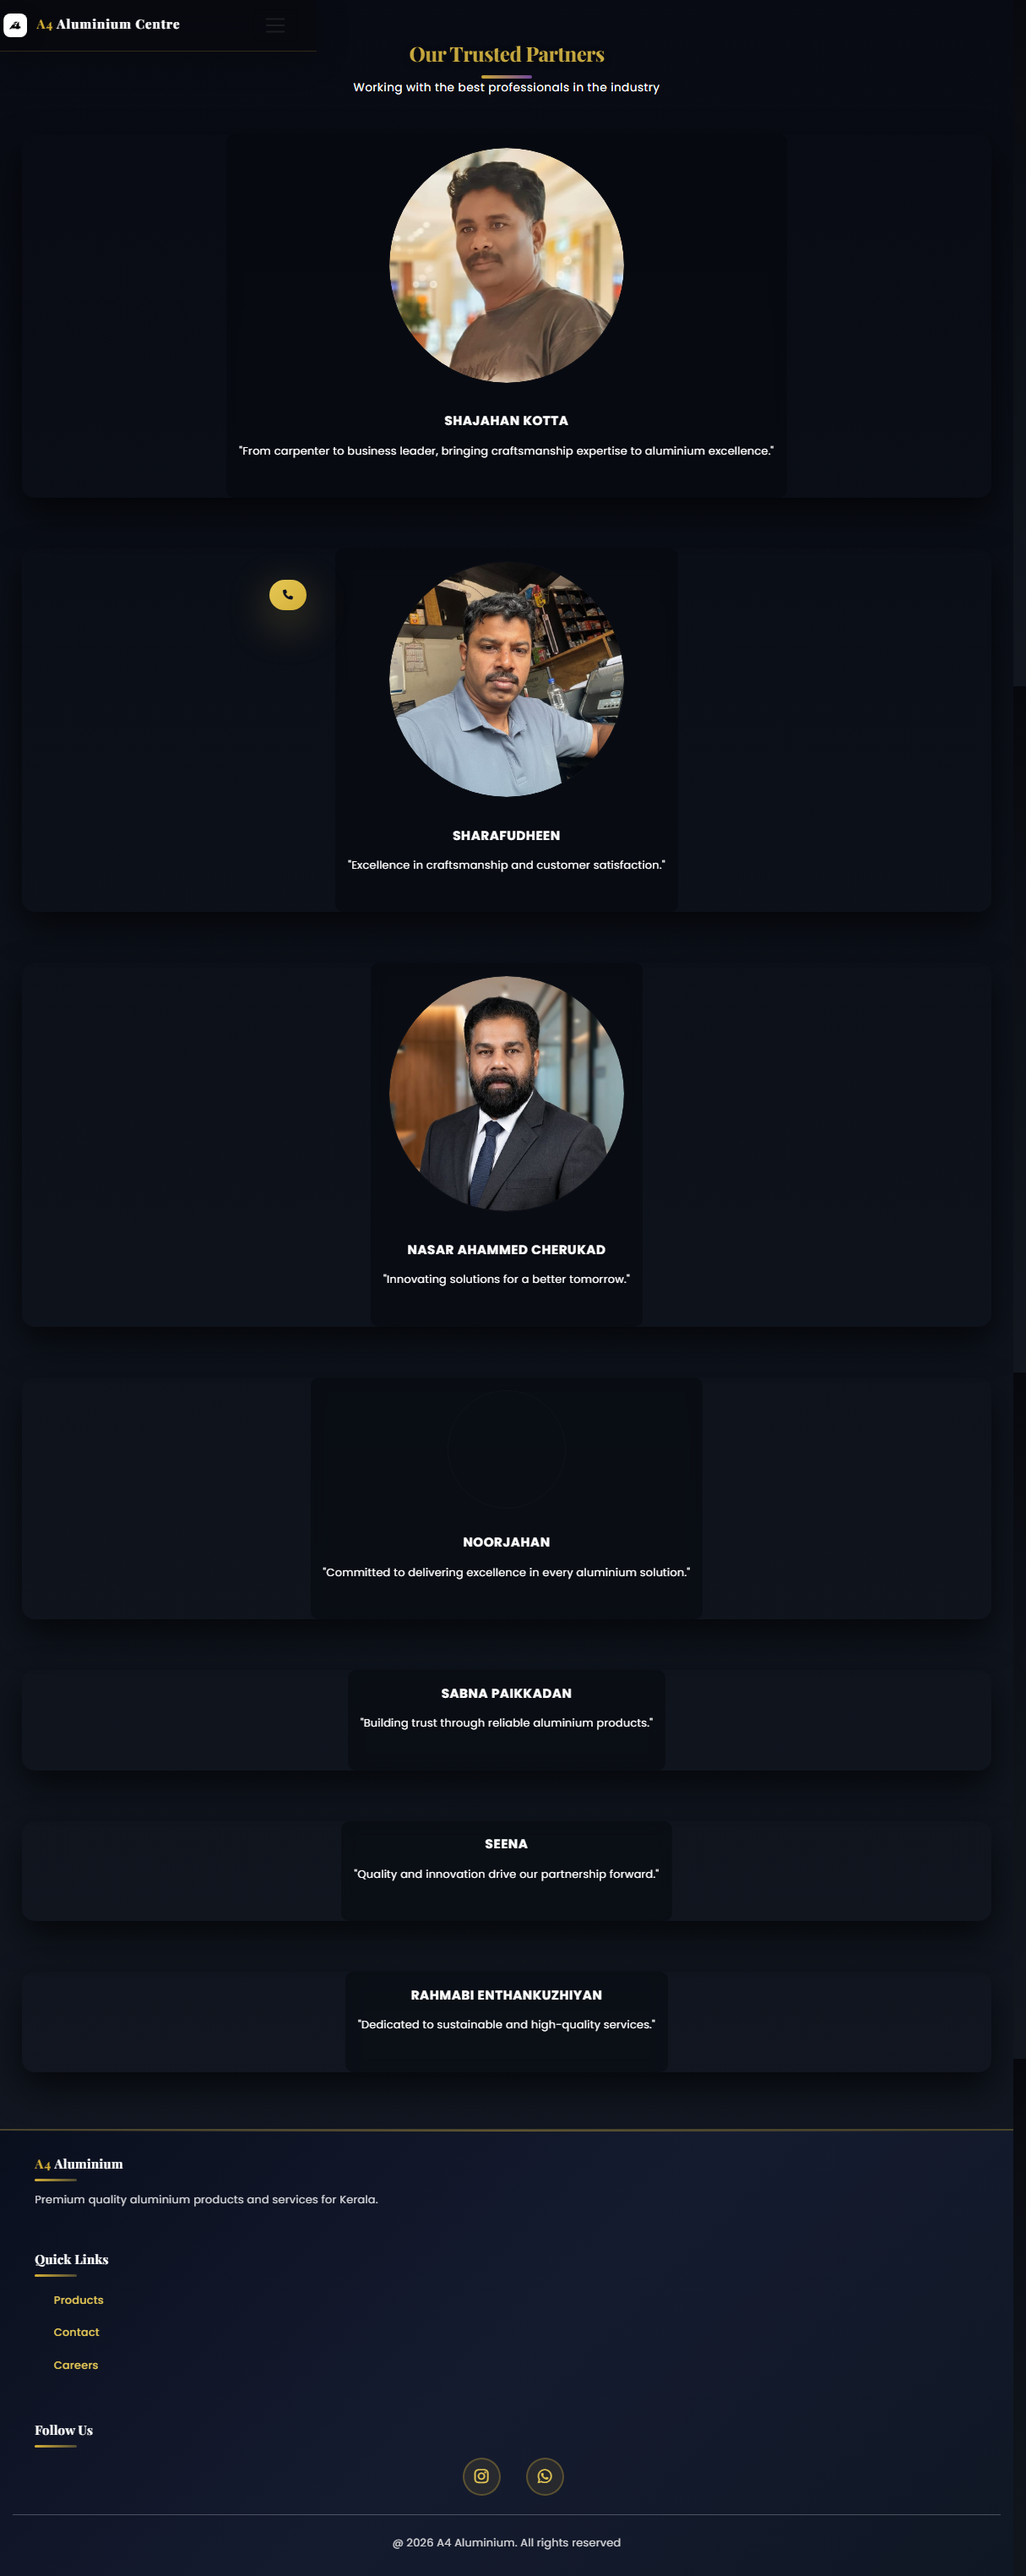
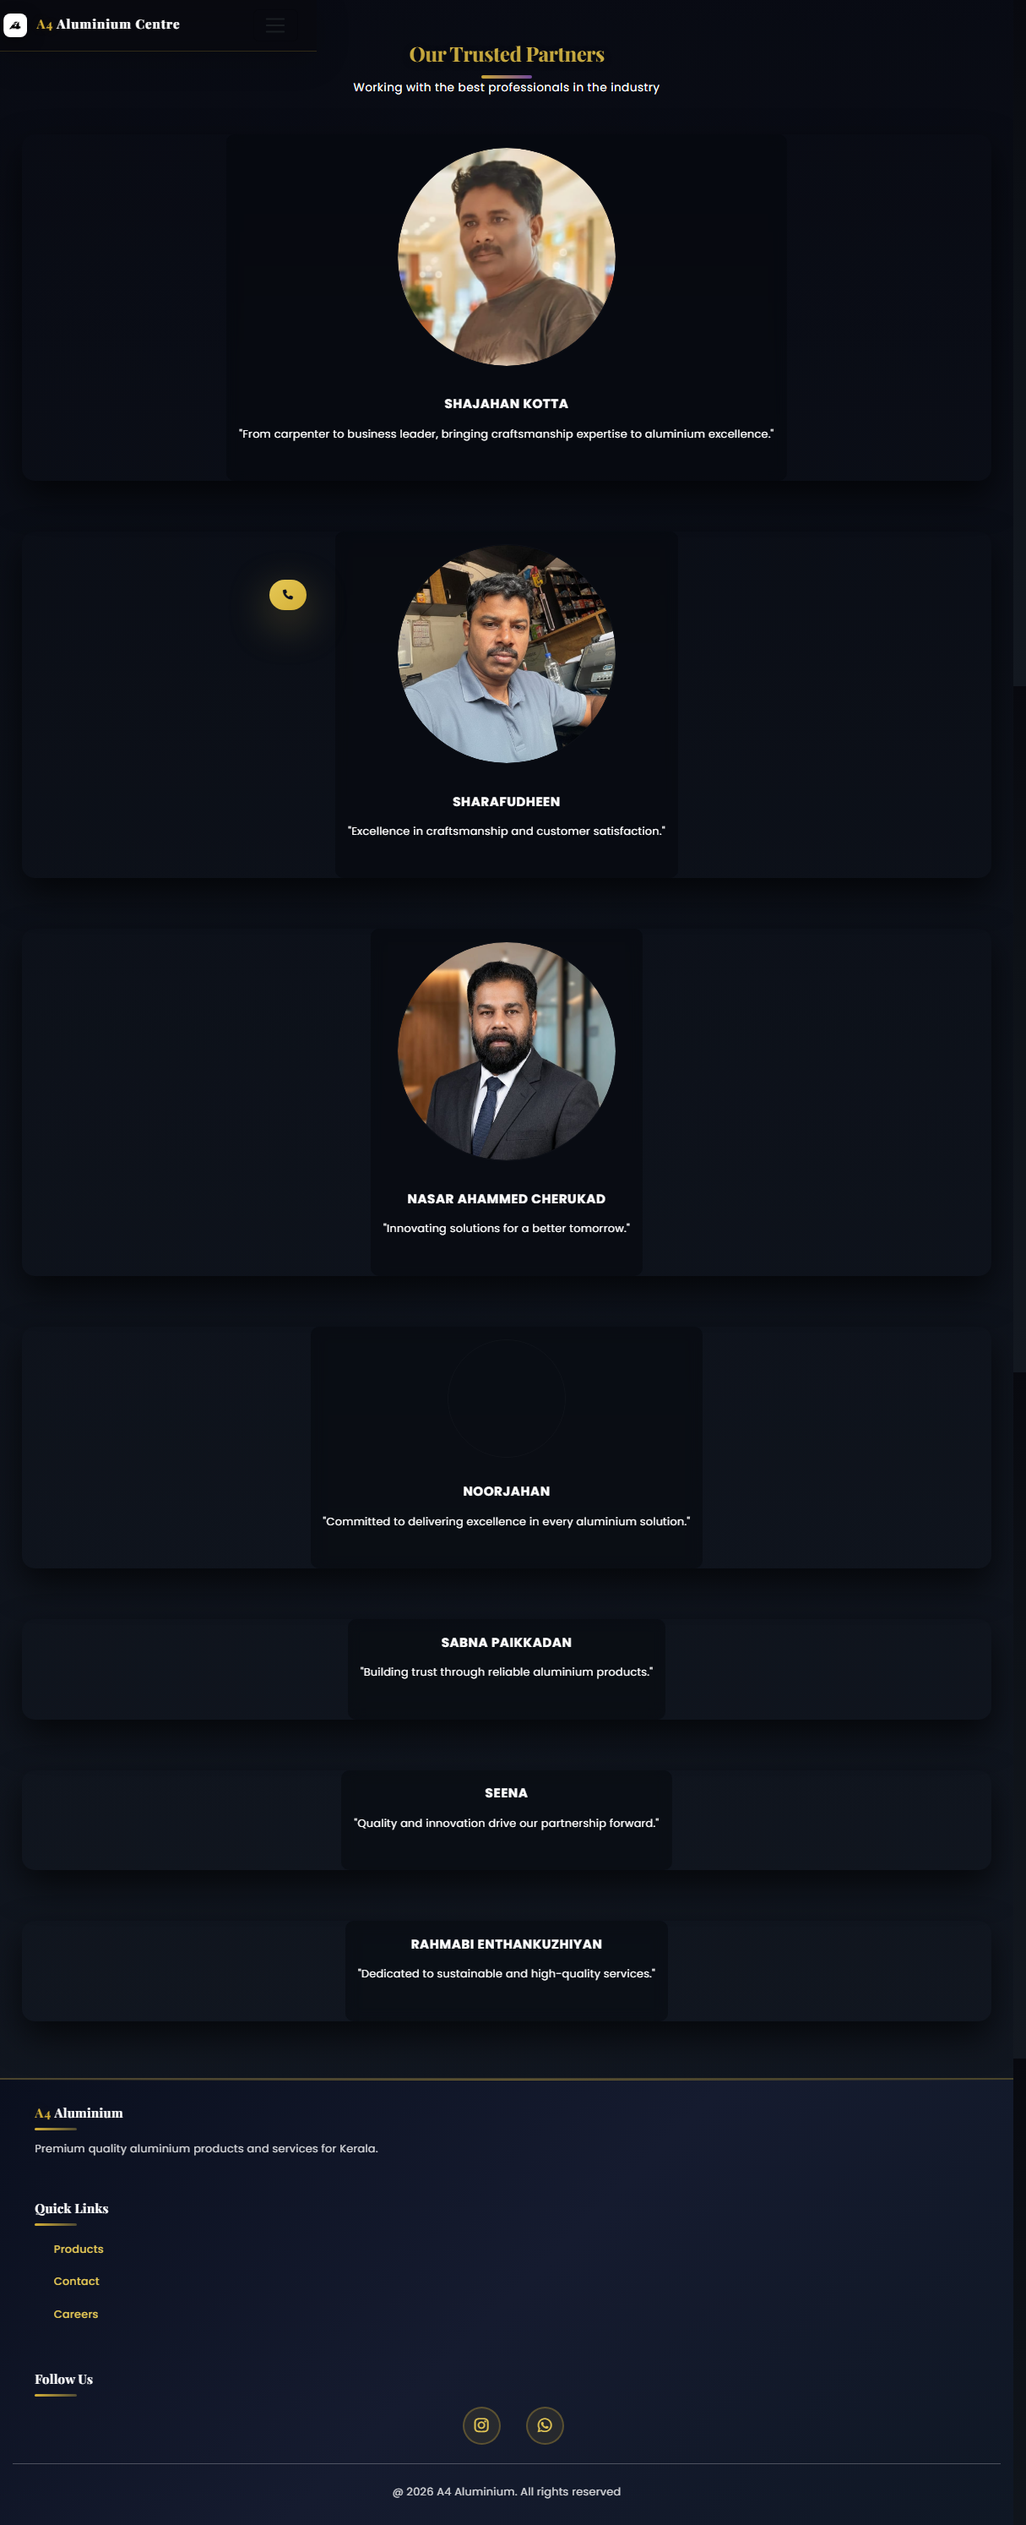
Update: a4 aluminium

diff --git a/styles-fixes.css b/styles-fixes.css
@@ -370,6 +370,35 @@ body.force-desktop .partners-section .partner-frame {
   margin-left: auto !important;
   margin-right: auto !important;
 }
+/* Prevent partner frames from creating horizontal overflow when forced-desktop
+   is active. Clip minor transforms and ensure frames stay within the grid. */
+body.force-desktop .partners-section {
+  overflow-x: hidden;
+  padding-left: 0 !important;
+  padding-right: 0 !important;
+}
+
+body.force-desktop .partners-section .row {
+  max-width: 1200px;
+  margin-left: auto;
+  margin-right: auto;
+}
+
+body.force-desktop .partner-card {
+  overflow: hidden; /* clip any shadow/transform that might bleed */
+}
+
+body.force-desktop .partner-frame {
+  box-sizing: border-box;
+  transform-origin: center center;
+  max-width: 260px;
+}
+
+/* Reduce hover/animation scale slightly in forced-desktop to avoid overflow */
+body.force-desktop .partner-frame:hover,
+body.force-desktop .partner-frame:focus-within {
+  transform: translateY(-2px) scale(1.01) !important;
+}
   /* Ensure wrapper elements don't collapse and show white beneath */
   .site-wrapper,
   main,
